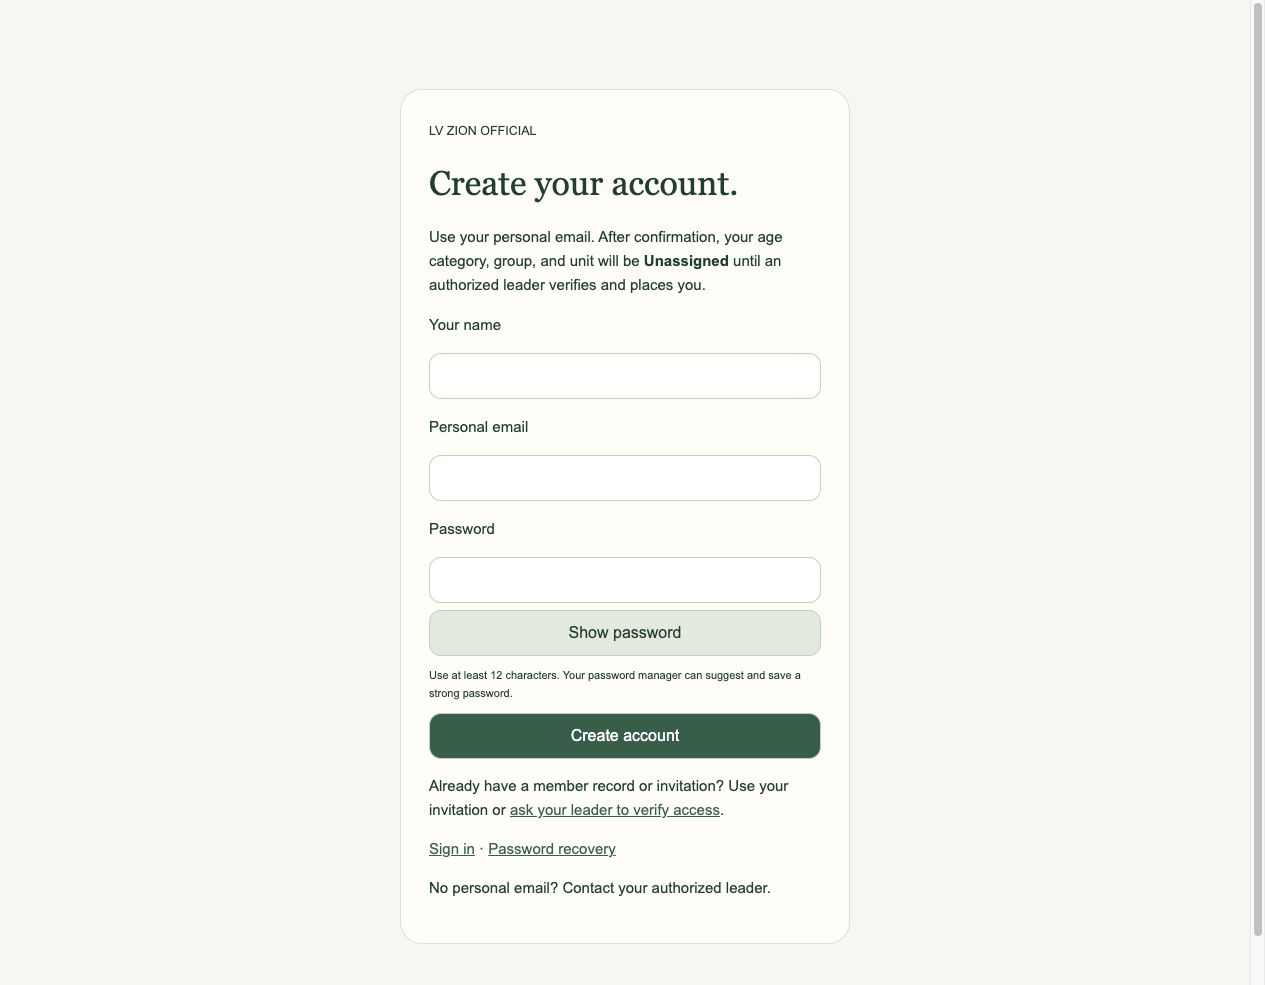
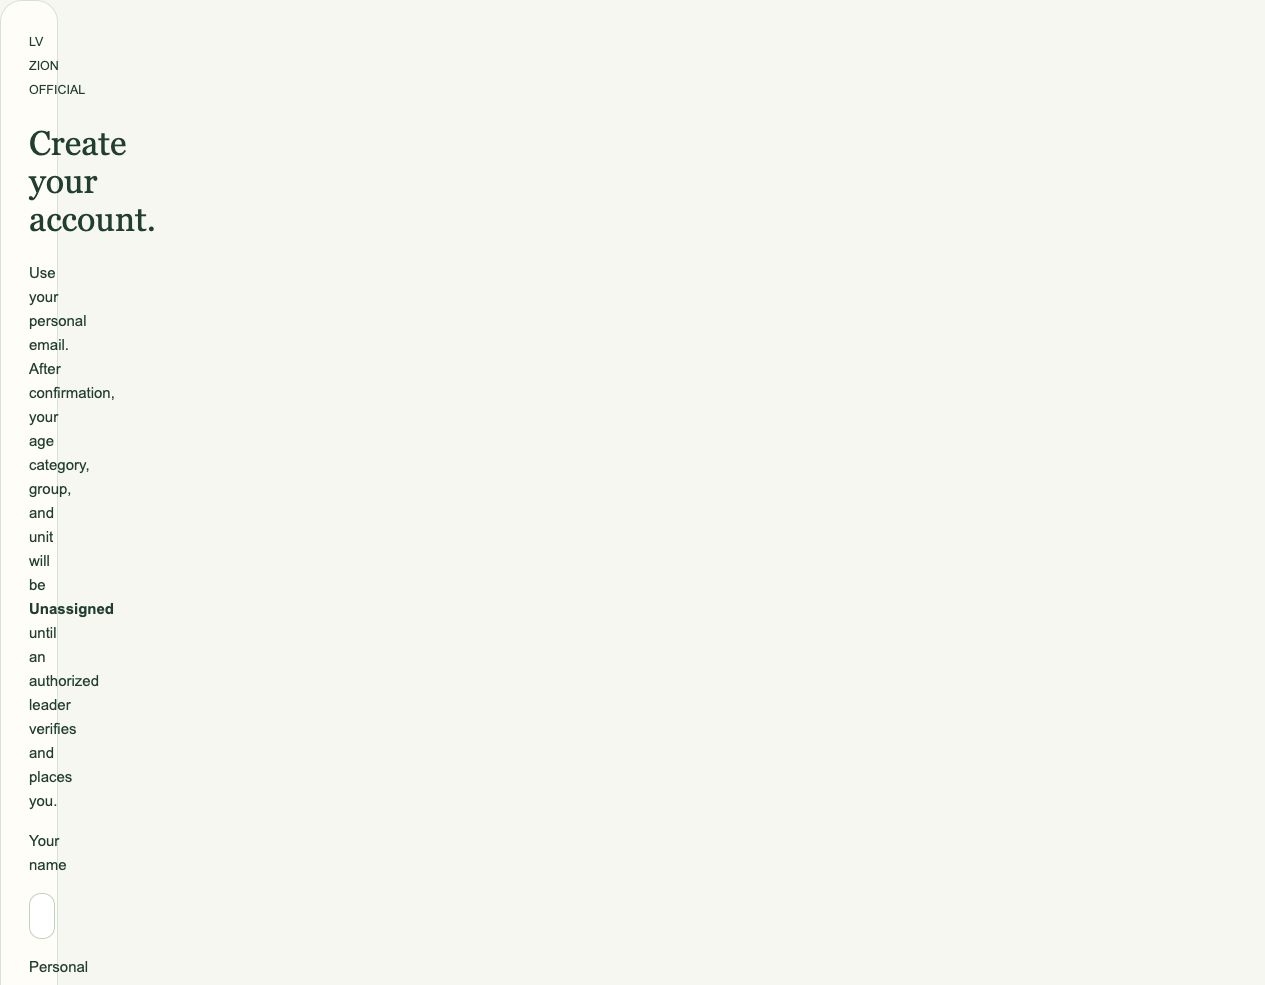
Record the verified six-character password release

diff --git a/docs/HANDOFF.md b/docs/HANDOFF.md
@@ -22,7 +22,7 @@ Six migrations are now applied on the actual new project. The older three were n
 
 ## Current production and email
 
-The actual app and self-service signup are live at https://lvz.app/sign-up. Production deployment dpl_8aR37Y4qqZRfvfJbT9sMLA2MY7VK is READY at main commit c33bcb638e28822c24c5695ce5f610c535406e01. Signup, verified delivery and account-email switches are enabled only for production. Twelve production signup/access checks passed; fictional routes redirect, anonymous private records are denied and a forged-origin request created no Auth identity. The provider reports the SMTP test delivered to its own synthetic delivered@resend.dev inbox. TLS authentication was verified. No real account or personal record was created for testing.
+The actual app and self-service signup are live at https://lvz.app/sign-up. Production deployment dpl_5XtZ7FjKqF71w3unp8z59Vqd2722 is READY at main commit 9ac33961ad37c433e41cf256dbd3dfe2d9479b78. Signup, verified delivery and account-email switches are enabled only for production. Twelve production signup/access checks passed; fictional routes redirect, anonymous private records are denied and a forged-origin request created no Auth identity. The provider reports the SMTP test delivered to its own synthetic delivered@resend.dev inbox. TLS authentication was verified. No real account or personal record was created for testing.
 
 The approved Resend key has sending-only access to auth.lvz.app and is stored in personal Keychain plus Supabase/Vercel secret stores. No credential files or logs contain its value. Resend remains on the free plan with paid overages off. Supabase's existing signup-email cap remains two per hour. Automatic approval review rejected an unapproved increase to thirty; a separate specific user decision is pending. Do not raise that cap until approved. SMTP port is a string in the current management API.
 
@@ -36,4 +36,4 @@ Personal credentials use Apple Passwords or Keychain only. No credentials or des
 
 ## Password policy update
 
-Anthony requested six characters as the minimum on 2026-10-14. The signup, invitation-activation and recovery forms and their server validation now agree. Supabase Auth must be verified at the same minimum before the deliberate production release. The earlier twelve-character rule is superseded by this direct instruction.
+Anthony requested six characters as the minimum on 2026-10-14. The signup, invitation-activation and recovery forms and their server validation now agree. Supabase Auth was verified at six, and the actual signup, activation and recovery pages serve six-character fields after release. Production build, 125 application tests, 182 PostgreSQL assertions and 31 phone-browser checks passed. The earlier twelve-character rule is superseded by this direct instruction.

diff --git a/docs/ACTUAL-APP-SETUP.md b/docs/ACTUAL-APP-SETUP.md
@@ -40,3 +40,5 @@ Retain the old production deployment dpl_6xjt1qTmgXggJvQUNoeJAhvnwLCk for websit
 - The real signup form is available for the owner to choose a password and confirm their own email. No real account or imported record was created by the agent.
 
 - Anthony requested a six-character password minimum on 2026-10-14. Signup, invitation activation, password recovery and Supabase Auth use the same six-character minimum. Longer passwords remain accepted up to 128 characters.
+
+- Six-character minimum is now live in production deployment dpl_5XtZ7FjKqF71w3unp8z59Vqd2722 at merged PR #17 commit 9ac33961ad37c433e41cf256dbd3dfe2d9479b78. Supabase Auth and all three live password forms were verified at six. Build, 125 app tests, 182 database assertions and 31 phone checks passed.
